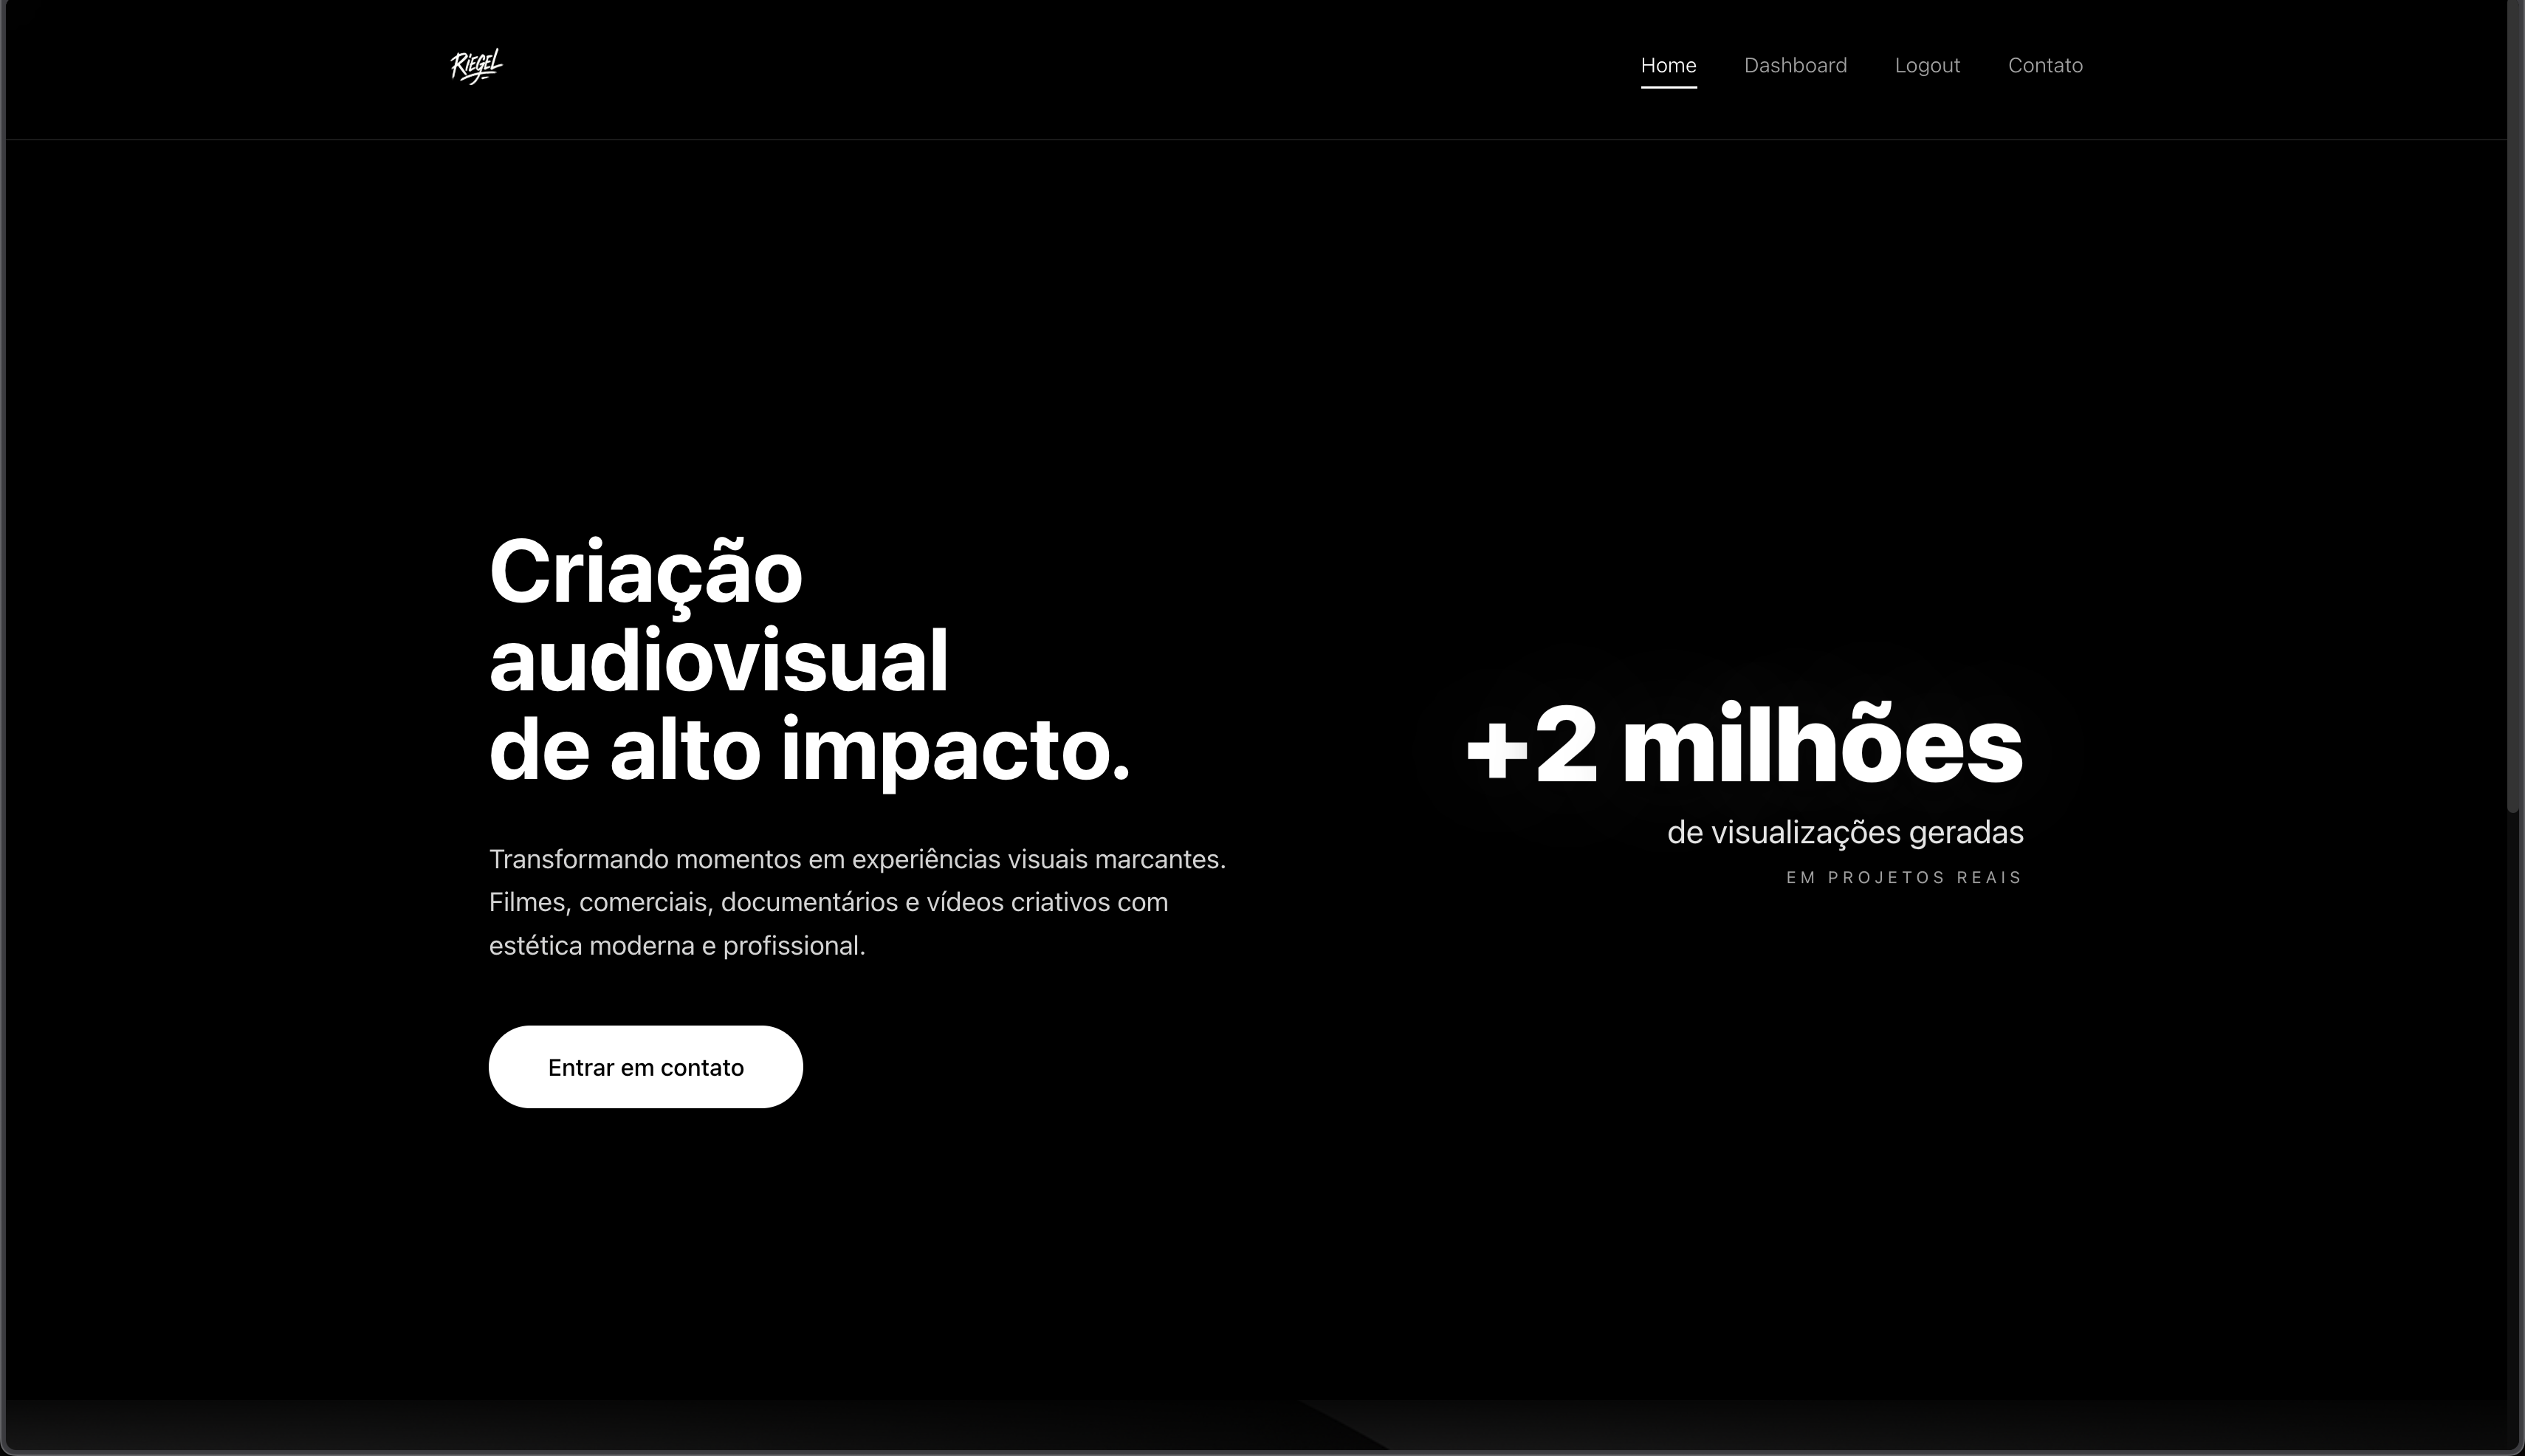
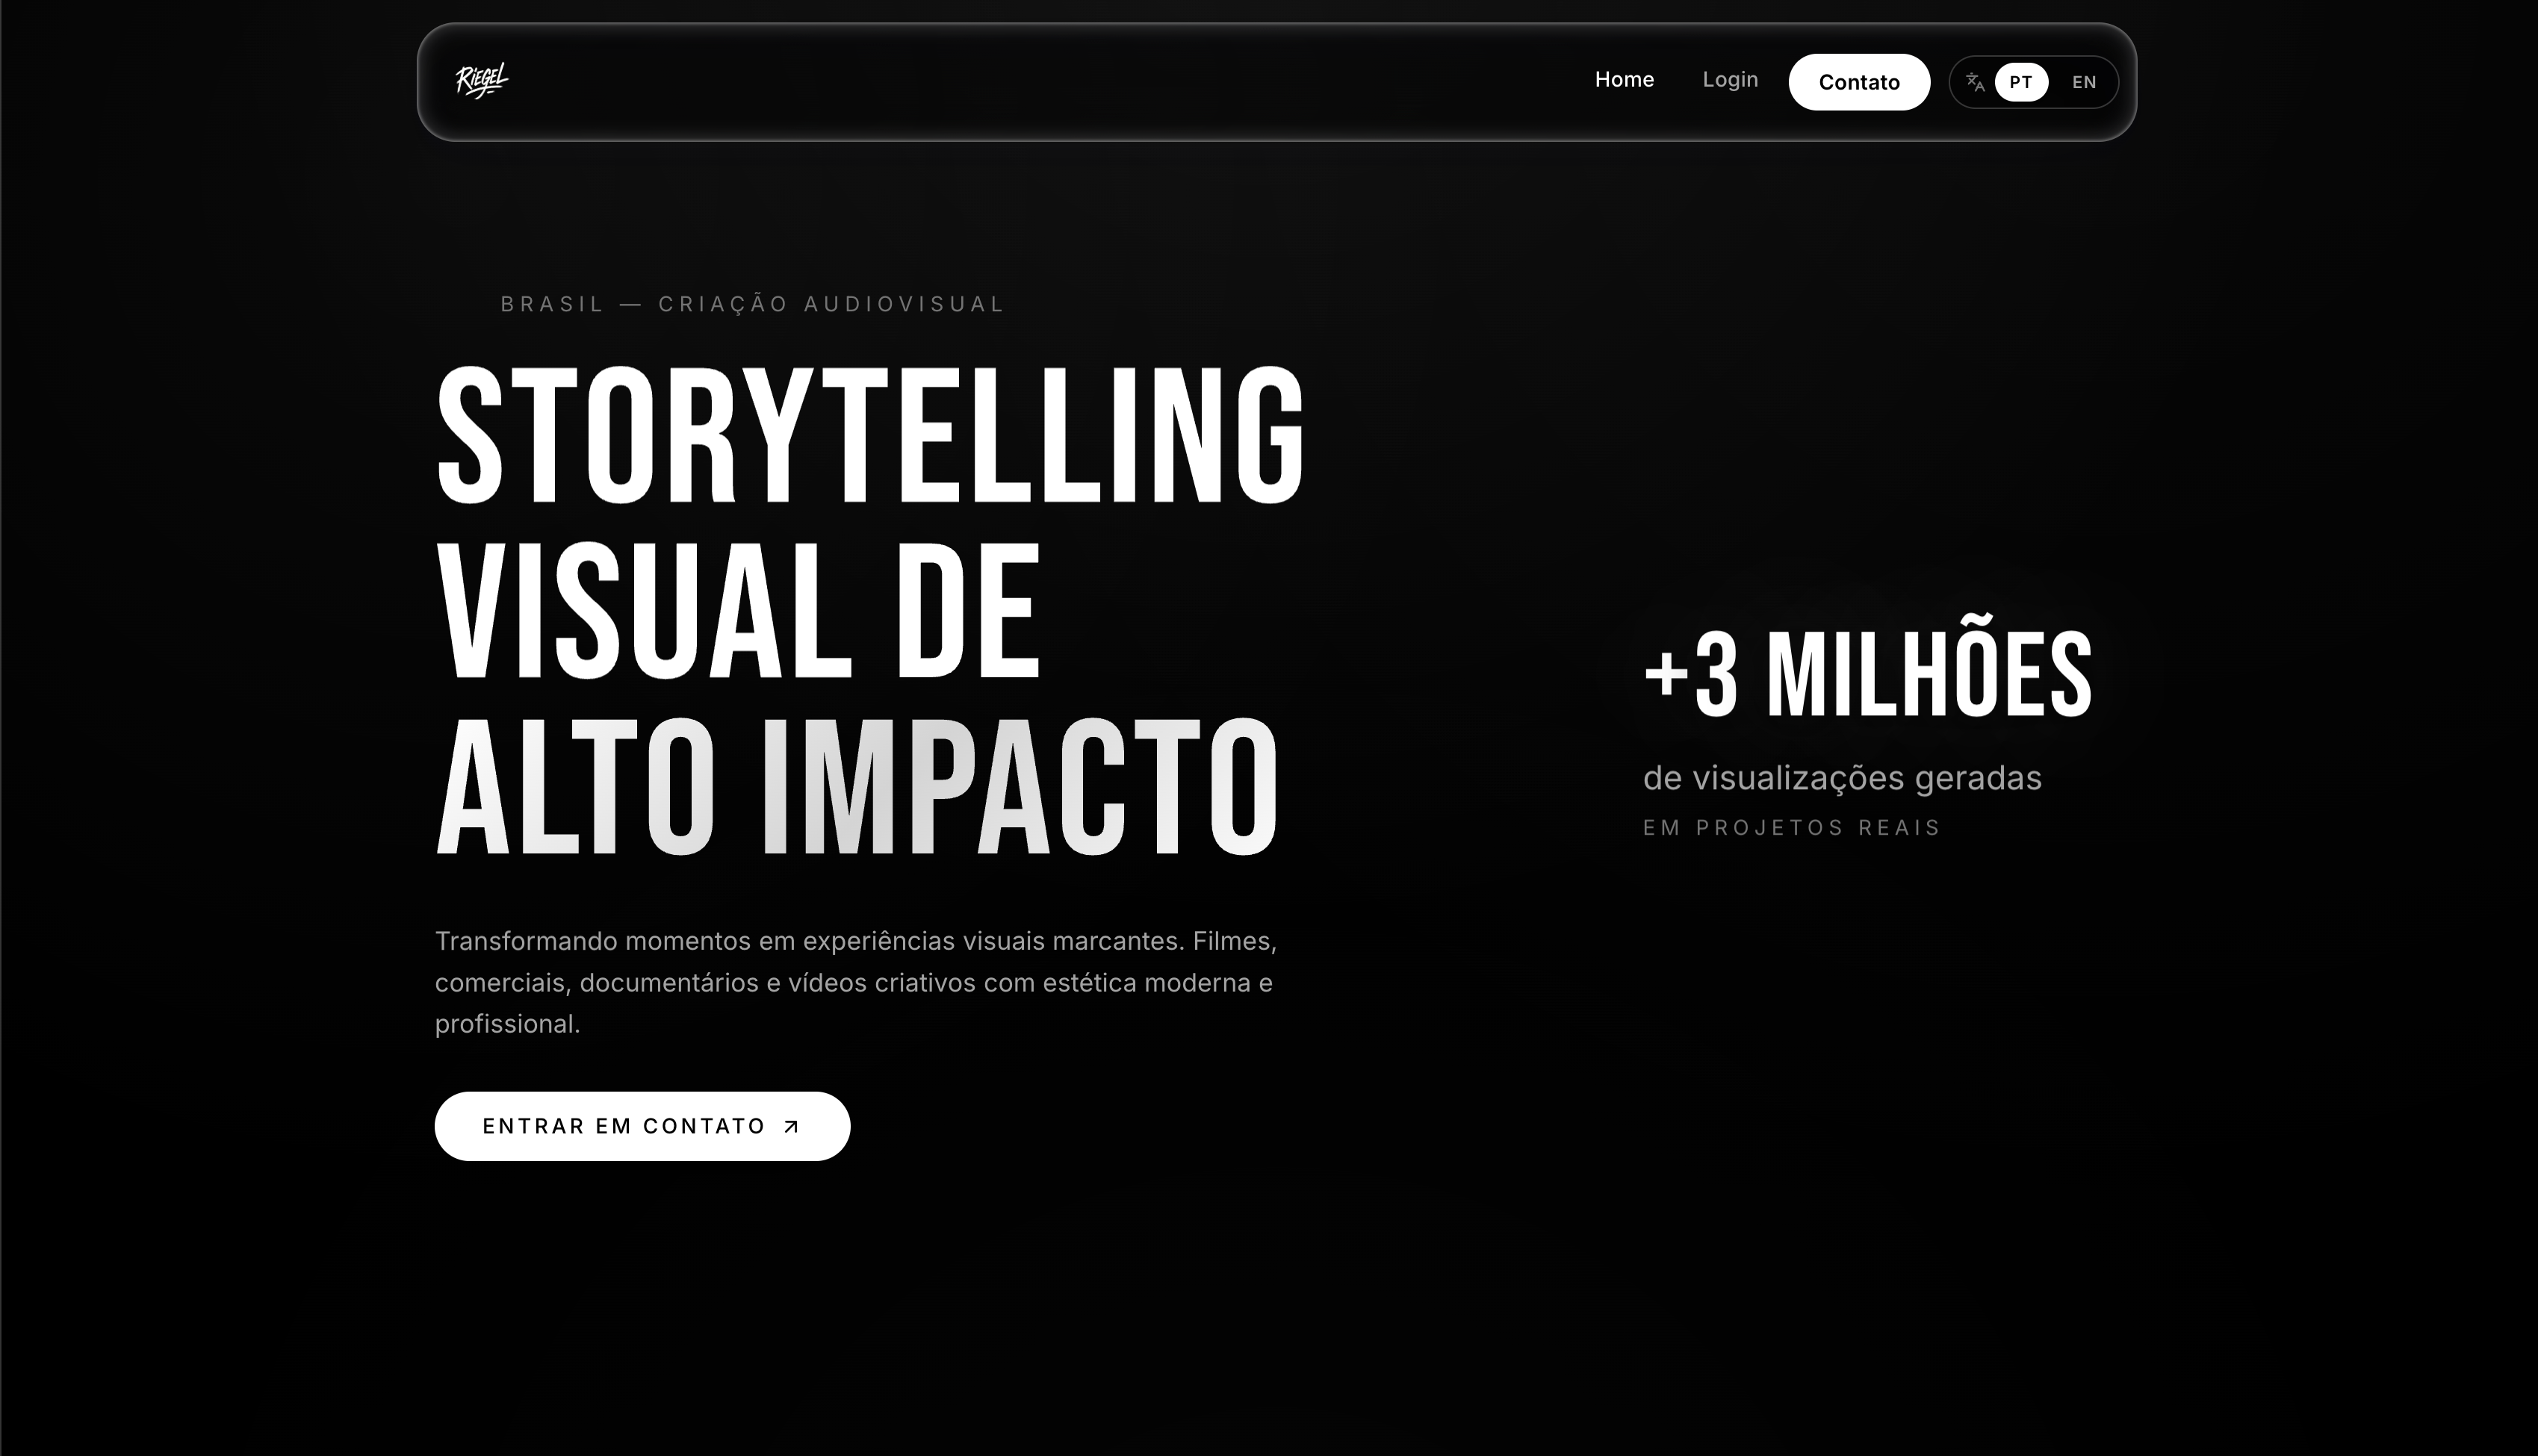
.....

diff --git a/public/download.html b/public/download.html
@@ -20,38 +20,105 @@
         padding: 1.5rem;
         text-align: center;
       }
+      h1 {
+        color: #fff;
+        font-size: 1.25rem;
+        font-weight: 600;
+        margin-bottom: 0.5rem;
+      }
       p {
-        max-width: 22rem;
+        max-width: 24rem;
         line-height: 1.5;
+        margin-bottom: 1.5rem;
+      }
+      .buttons {
+        display: flex;
+        flex-direction: column;
+        gap: 0.75rem;
+        width: min(100%, 16rem);
+      }
+      button {
+        appearance: none;
+        border: 1px solid rgba(255, 255, 255, 0.1);
+        background: rgba(255, 255, 255, 0.04);
+        color: #fff;
+        font: inherit;
+        font-size: 0.95rem;
+        padding: 0.85rem 1rem;
+        border-radius: 10px;
+        cursor: pointer;
+        transition: border-color 0.2s, background 0.2s;
+      }
+      button:hover {
+        border-color: #5227ff;
+        background: rgba(82, 39, 255, 0.12);
+      }
+      button span {
+        display: block;
+        font-size: 0.75rem;
+        color: rgba(255, 255, 255, 0.4);
+        margin-top: 0.25rem;
+      }
+      #status {
+        margin-top: 1.25rem;
+        min-height: 1.5rem;
+        font-size: 0.9rem;
       }
     </style>
   </head>
   <body>
-    <p id="status">Iniciando download…</p>
+    <div>
+      <h1>Setup pós-formatação</h1>
+      <p>Escolha o sistema. O download começa na hora.</p>
+
+      <div class="buttons">
+        <button type="button" data-file="/downloads/setup-mac.sh">
+          macOS
+          <span>setup-mac.sh</span>
+        </button>
+        <button type="button" data-file="/downloads/setup-windows.zip">
+          Windows
+          <span>setup-windows.zip</span>
+        </button>
+      </div>
+
+      <p id="status"></p>
+    </div>
+
     <script>
-      // Troque o nome do arquivo abaixo pelo que estiver em public/downloads/
-      const FILE = '/downloads/setup-mac.sh';
-
       const status = document.getElementById('status');
-      const filename = FILE.split('/').pop();
 
-      fetch(FILE)
-        .then((res) => {
-          if (!res.ok) throw new Error('not found');
-          return res.blob();
-        })
-        .then((blob) => {
-          const url = URL.createObjectURL(blob);
-          const link = document.createElement('a');
-          link.href = url;
-          link.download = filename;
-          link.click();
-          URL.revokeObjectURL(url);
-          status.textContent = 'Download iniciado. Pode fechar esta aba.';
-        })
-        .catch(() => {
-          status.textContent = 'Arquivo não encontrado no servidor. Confira se fez deploy com o arquivo em public/downloads/.';
-        });
+      function download(file) {
+        const filename = file.split('/').pop();
+        status.textContent = 'Iniciando download…';
+
+        fetch(file)
+          .then((res) => {
+            if (!res.ok) throw new Error('not found');
+            return res.blob();
+          })
+          .then((blob) => {
+            const url = URL.createObjectURL(blob);
+            const link = document.createElement('a');
+            link.href = url;
+            link.download = filename;
+            link.click();
+            URL.revokeObjectURL(url);
+            status.textContent = 'Download iniciado. Pode fechar esta aba.';
+          })
+          .catch(() => {
+            status.textContent = 'Arquivo não encontrado no servidor.';
+          });
+      }
+
+      document.querySelectorAll('button[data-file]').forEach((button) => {
+        button.addEventListener('click', () => download(button.dataset.file));
+      });
+
+      const params = new URLSearchParams(window.location.search);
+      const os = params.get('os');
+      if (os === 'mac') download('/downloads/setup-mac.sh');
+      if (os === 'windows') download('/downloads/setup-windows.zip');
     </script>
   </body>
 </html>